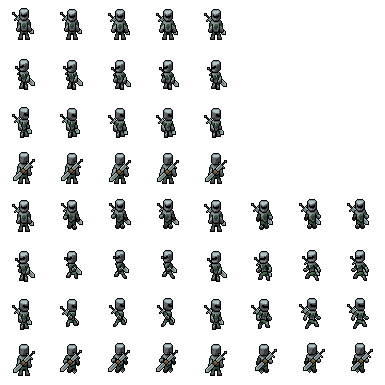
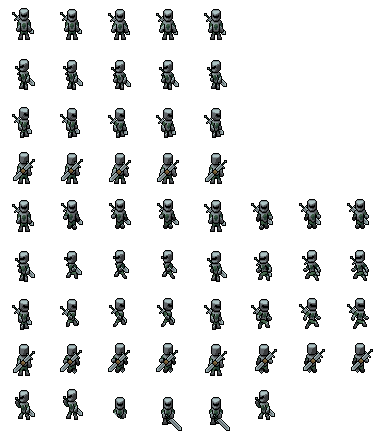
weapon class and atack animation

diff --git a/src/Components/AnimationComponent.cpp b/src/Components/AnimationComponent.cpp
@@ -58,9 +58,12 @@ void AnimationComponent::play(const std::string key, const float& dt)
 	//Check for priority level
 	if (this->currentAnimation) // If it exist
 	{
-		if (this->currentAnimation->priorityLevel < this->animations[key]->priorityLevel) // If new animation has a higher priority
+		if (this->currentAnimation->priorityLevel <= this->animations[key]->priorityLevel) // If new animation has a higher priority
 		{
-			this->currentAnimation->reset();
+			if (this->currentAnimation != this->animations[key])
+			{
+				this->currentAnimation->reset();
+			}
 			this->currentAnimation = this->animations[key];
 		}
 	}
@@ -70,7 +73,7 @@ void AnimationComponent::play(const std::string key, const float& dt)
 	}
 
 	//If animation ended
-	if (this->animations[key]->play(dt))
+	if (this->currentAnimation->play(dt))
 	{
 		this->currentAnimation = NULL;
 	}
@@ -132,14 +135,19 @@ void AnimationComponent::Animation::reset()
 {
 	this->timer = this->animationTimer;
 	this->currentRect = this->startRect;
-	this->isDone = false;
+	this->isDone = true;
 
-
+	for (auto it : this->animationJobs)
+	{
+		if (it.jobType == CLEARING_JOB)
+			it.currentWeapon->endAtack();
+	}
 }
 
 bool AnimationComponent::Animation::play(const float& dt)
 {
 	//Update timer
+	this->isDone = false;
 	this->timer += 30.f * dt;
 	if (this->timer >= this->animationTimer)
 	{
@@ -153,8 +161,7 @@ bool AnimationComponent::Animation::play(const float& dt)
 		}
 		else // Reset
 		{
-			this->currentRect = this->startRect;
-			this->isDone = true;
+			this->reset();
 		}
 
 		this->sprite.setTextureRect(this->currentRect);
@@ -170,7 +177,7 @@ bool AnimationComponent::Animation::play(const float& dt, float movement_speed)
 	{
 		movement_speed = 0.5;
 	}
-
+	this->isDone = false;
 	this->timer += (movement_speed / 10.f) * dt;
 	if (this->timer >= this->animationTimer)
 	{  
@@ -184,8 +191,7 @@ bool AnimationComponent::Animation::play(const float& dt, float movement_speed)
 		}
 		else // Reset
 		{
-			this->currentRect = this->startRect;
-			this->isDone = true;
+			this->reset();
 		}
 
 		this->sprite.setTextureRect(this->currentRect);

diff --git a/src/Entities/Player.cpp b/src/Entities/Player.cpp
@@ -3,6 +3,8 @@
 //Initializers functions
 void Player::initVariables()
 {
+	this->isAtacking = false;
+	this->weapon = new Weapon(&this->isAtacking);
 }
 
 void Player::initComponents()
@@ -26,6 +28,20 @@ void Player::initAnimations()
 	this->animationComponent->addAnimation("WALK_LEFT", std::vector<Job> {}, 2.5f, 0, 5, 7, 5, 48, 48, 0);
 	this->animationComponent->addAnimation("WALK_RIGHT", std::vector<Job> {}, 2.5f, 0, 6, 7, 6, 48, 48, 0);
 	this->animationComponent->addAnimation("WALK_UP", std::vector<Job> {}, 1.5f, 0, 7, 7, 7, 48, 48, 0);
+
+
+	//ATACKING
+	this->animationComponent->addAnimation("ATACK_DOWN",
+		std::vector<Job>
+		{
+			Job(START_JOB, NULL),
+			Job(PROCESS_JOB, NULL),
+			Job(PROCESS_JOB, NULL),
+			Job(PROCESS_JOB, NULL),
+			Job(PROCESS_JOB, NULL),
+			Job(CLEARING_JOB, this->weapon)
+		},
+		5.f, 0, 8, 5, 8, 48, 48, 1);
 }
 
 //Constructors / Destructors
@@ -48,14 +64,24 @@ Player::Player(float width, float height, float x, float y, sf::Texture& texture
 
 Player::~Player()
 {
-
+	delete this->weapon;
 }
 
 //Functions
 void Player::update(const float& dt)
 {
 	this->movementComponent->update(dt);
+	this->hitboxComponent->update();
+	this->updateAnimations(dt);
 
+}
+
+void Player::updateAnimations(const float& dt)
+{
+	if (this->isAtacking)
+	{
+		this->animationComponent->play("ATACK_DOWN", dt);
+	}
 	if (this->movementComponent->getState(IDLE))
 	{
 		switch (this->movementComponent->getDirection())
@@ -96,7 +122,25 @@ void Player::update(const float& dt)
 			"WALK_UP", dt,
 			this->movementComponent->getVelocity().y
 		);
+}
 
-	this->hitboxComponent->update();
+void Player::startAtack()
+{
+	if (!this->isAtacking)
+		this->isAtacking = true;
+}
 
+void Player::endAtack()
+{
+	if (this->isAtacking)
+		this->isAtacking = false;
+}
+
+void Player::move(const float dir_x, const float dir_y, const float& dt)
+{
+	if (this->movementComponent)
+	{
+		if(!this->isAtacking)
+			this->movementComponent->move(dir_x, dir_y, dt);//Sets velocity
+	}
 }

diff --git a/src/Entities/Player.h b/src/Entities/Player.h
@@ -6,14 +6,17 @@ class Player :
     public Entity
 {
 private:
-protected:
     //Variables
+    bool isAtacking;
+
+    Weapon* weapon;
 
 
     //Initializers functions
     void initVariables();
     void initComponents();
     void initAnimations();
+protected:
 public:
     //Constructors / Destructors
     Player(float width, float height, float x, float y, sf::Texture& texture_sheet);
@@ -21,5 +24,10 @@ public:
 
     //Functions
     virtual void update(const float& dt);
+    void updateAnimations(const float& dt);
+
+    void startAtack();
+    void endAtack();
+    void move(const float dir_x, const float dir_y, const float& dt);
 };
 

diff --git a/src/Weapons/Job.h b/src/Weapons/Job.h
@@ -1,9 +1,10 @@
 #pragma once
 
+#include "Weapon.h"
 
 enum job_types {
 	START_JOB = 0,
-	POCESS_JOB,
+	PROCESS_JOB,
 	CLEARING_JOB
 };
 
@@ -12,16 +13,14 @@ class Job
 {
 public:
 	// Constructor / Destructor
-	Job(int job_type, void (*job_function) ())
+	Job(int job_type, Weapon* current_weapon)
 	{
 		this->jobType = job_type;
-		this->jobFunction = job_function;
+		this->currentWeapon = current_weapon;
 	}
 	virtual ~Job() {}
 
 	// Variables
 	int jobType;
-
-	// Functions
-	void (*jobFunction)();
+	Weapon* currentWeapon;
 };

diff --git a/src/Components/AnimationComponent.h b/src/Components/AnimationComponent.h
@@ -10,6 +10,7 @@
 #include <SFML/Audio.hpp>
 #include <SFML/Network.hpp>
 
+#include "Weapon.h"
 #include "Job.h"
 
 class AnimationComponent
@@ -65,7 +66,7 @@ private:
 	sf::Texture& textureSheet;
 	std::map<std::string, Animation*> animations;
 
-	Animation* lastAnimation; // Deprecated for now, not sure if it will be used
+	//Animation* lastAnimation; // Deprecated for now, not sure if it will be used
 	Animation* currentAnimation;
 protected:
 

diff --git a/src/States/GameState.cpp b/src/States/GameState.cpp
@@ -58,6 +58,8 @@ void GameState::updateInput(const float& dt)
 		this->player->move(0.f, -1.f, dt);
 	if (sf::Keyboard::isKeyPressed(sf::Keyboard::Key(this->keybinds.at("MOVE_DOWN"))))
 		this->player->move(0.f, 1.f, dt);
+	if (sf::Mouse::isButtonPressed(sf::Mouse::Button(this->keybinds.at("ATACK"))))
+		this->player->startAtack();
 
 	if (sf::Keyboard::isKeyPressed(sf::Keyboard::Key(this->keybinds.at("CLOSE_STATE"))))
 		this->endState();

diff --git a/src/Weapons/Weapon.h b/src/Weapons/Weapon.h
@@ -1,0 +1,17 @@
+#pragma once
+#include <iostream>
+
+class Weapon
+{
+private:
+	bool* isEntityAtacking;
+protected:
+public:
+	// Constructor / Destructor
+	Weapon(bool* is_entity_atacking);
+	virtual ~Weapon();
+	
+	//Function
+	virtual void endAtack();
+};
+

diff --git a/src/Weapons/Weapon.cpp b/src/Weapons/Weapon.cpp
@@ -1,0 +1,15 @@
+#include "Weapon.h"
+
+Weapon::Weapon(bool* is_entity_atacking)
+	: isEntityAtacking(is_entity_atacking)
+{
+}
+
+Weapon::~Weapon()
+{
+}
+
+void Weapon::endAtack()
+{
+	*this->isEntityAtacking = false;
+}
